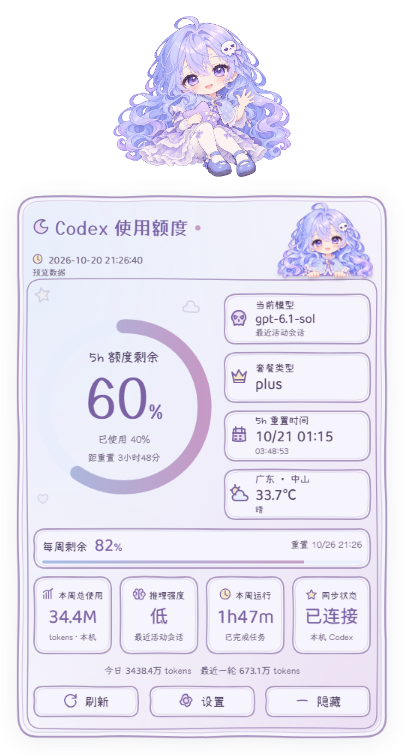
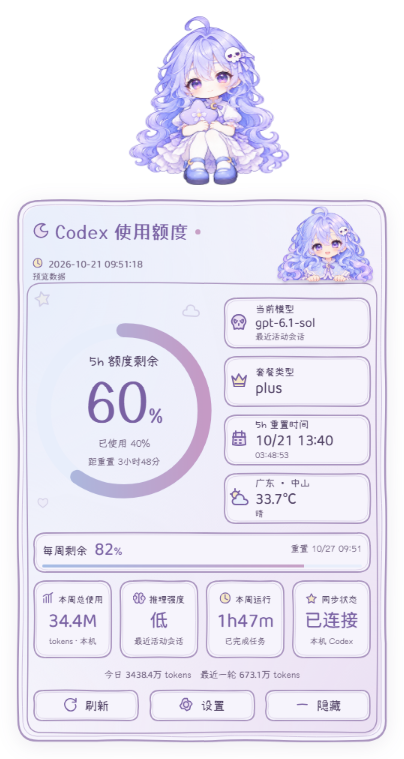
Align idle and blinking poses with seated breathing concept and refresh README

diff --git a/ui/pet.html b/ui/pet.html
@@ -26,5 +26,5 @@
     <div class="doodle d1" data-icon="star"></div><div class="doodle d2" data-icon="cloud"></div><div class="doodle d3" data-icon="heart"></div><div id="notice" role="status" hidden></div>
   </section>
   <div id="bridge" hidden></div>
-  <button id="pet" aria-label="Lunelle：点击展开或收起额度，拖动移动，右键设置" title="Lunelle"><span id="pet-facing"><span id="pet-breathe"><span id="pet-art"><img src="../assets/characters/pet.png" id="pet-image" alt="Lunelle"><span id="walk-rig" aria-hidden="true"><span class="walk-leg walk-leg-back"><img src="../assets/characters/walk-leg-right.png" alt="" draggable="false"></span><span class="walk-leg walk-leg-front"><img src="../assets/characters/walk-leg-left.png" alt="" draggable="false"></span><img class="walk-body" src="../assets/characters/walk-body.png" alt="" draggable="false"></span></span></span></span></button>
+  <button id="pet" aria-label="Lunelle：点击展开或收起额度，拖动移动，右键设置" title="Lunelle"><span id="pet-facing"><span id="pet-breathe"><span id="pet-art"><img src="../assets/characters/idle-seated.png" id="pet-image" alt="Lunelle"><span id="walk-rig" aria-hidden="true"><span class="walk-leg walk-leg-back"><img src="../assets/characters/walk-leg-right.png" alt="" draggable="false"></span><span class="walk-leg walk-leg-front"><img src="../assets/characters/walk-leg-left.png" alt="" draggable="false"></span><img class="walk-body" src="../assets/characters/walk-body.png" alt="" draggable="false"></span></span></span></span></button>
 </main><script src="illustrations.js"></script><script src="pet-animation.js"></script><script src="pet.js"></script></body></html>

diff --git a/ui/pet-animation.js b/ui/pet-animation.js
@@ -1,7 +1,7 @@
 'use strict';
 (()=>{
  const pet=document.getElementById('pet'),image=document.getElementById('pet-image'),art=document.getElementById('pet-art');
- const root='../assets/characters/',paths={idle:'pet.png',blink:'motion-blink.png',wave:'motion-wave.png',lift:'motion-lift.png',walkBody:'walk-body.png',walkLeft:'walk-leg-left.png',walkRight:'walk-leg-right.png'};
+ const root='../assets/characters/',paths={idle:'idle-seated.png',blink:'blink-seated.png',wave:'motion-wave.png',lift:'motion-lift.png',walkBody:'walk-body.png',walkLeft:'walk-leg-left.png',walkRight:'walk-leg-right.png'};
  let ready=false,panel=false,drag=false,activity='idle',action=null,animation=null,finishTimer=null,blinkTimer=null;
  const reduced=matchMedia('(prefers-reduced-motion: reduce)');
  function pose(name){if(ready){image.src=root+paths[name];pet.classList.toggle('action-pose',name!=='idle'&&name!=='blink');}}

diff --git a/README.md b/README.md
@@ -16,7 +16,7 @@
 一只浅紫色的桌面伙伴，一本随手展开的 Codex 使用手账。<br />
 剩余额度、重置倒计时、本机 token 统计与天气，轻轻放在桌边。
 
-<img src="assets/characters/pet.png" width="270" alt="Lunelle 原始柔和配色角色" />
+<img src="assets/characters/idle-seated.png" width="270" alt="Lunelle 抱星星并膝坐姿待机形象" />
 
 **[下载安装](https://github.com/Timiocoisin/Lunelle/releases/latest) · [界面预览](#preview) · [使用方式](#controls) · [源码运行](#development) · [反馈问题](https://github.com/Timiocoisin/Lunelle/issues)**
 
@@ -51,7 +51,7 @@
 
 | 平台 | 下载 | 状态 |
 | :--- | :--- | :--- |
-| Windows x64 | **[下载 v0.3.0 安装包](https://github.com/Timiocoisin/Lunelle/releases/download/v0.3.0/Lunelle-Setup-0.3.0-x64.exe)** | 已构建并完成本地验证 |
+| Windows x64 | **[下载 v0.3.1 安装包](https://github.com/Timiocoisin/Lunelle/releases/download/v0.3.1/Lunelle-Setup-0.3.1-x64.exe)** | 已构建并完成本地验证 |
 | 其他版本 | [查看全部 Releases](https://github.com/Timiocoisin/Lunelle/releases) | 更新说明与安装附件 |
 | macOS / Linux | 暂不提供安装包 | 完整桌面行为尚未验证 |
 
@@ -102,7 +102,7 @@
 
 ## 有一点动作，也懂得安静
 
-待机时轻轻呼吸、偶尔眨眼；单击随机歪头、点头或挥手，仍正常切换面板。
+待机采用下方设计稿中的抱星星、双膝并拢坐姿，轻轻呼吸、偶尔眨眼；单击随机歪头、点头或挥手，仍正常切换面板。
 拖动时切换拎起姿态，松手后轻微回弹。面板展开后停止走动，只保留轻微呼吸。
 
 在 **设置 → 交互与说明 → 自动活动** 开启，默认关闭：
@@ -120,6 +120,12 @@
 <sub>最初的八动作设计稿，保留更名前的 Xingyue 题字。设计图表达动作方向，实际效果以运行截图和应用为准。</sub>
 
 </div>
+
+### 待机，和设计稿保持一致
+
+<table><tr><th>待机坐姿</th><th>同姿态眨眼</th></tr><tr><td align="center"><img src="assets/characters/idle-seated.png" width="260" alt="实际使用的抱星星并膝待机坐姿" /></td><td align="center"><img src="assets/characters/blink-seated.png" width="260" alt="保持相同坐姿的闭眼帧" /></td></tr></table>
+
+待机呼吸使用同一张坐姿图连续轻微起伏，不来回切换两张人物图片。面板展开后保持坐姿，只保留轻微呼吸。
 
 ### 走几步，再陪你坐一会儿
 
@@ -205,17 +211,17 @@ tests/      合成日志、坐标回归、隔离界面与原生窗口检查
 docs/       展示图片、实现与安装验证记录
 ```
 
-## 最近更新 · v0.3.0
+## 最近更新 · v0.3.1
 
 - **正式更名为 Lunelle**：软件、安装包、快捷方式与仓库名称统一，旧仓库链接由 GitHub 重定向。
-- **八组动作与全屏散步**：保留原始柔和待机形象，加入动作预览、活动状态说明和快速试走。
+- **八组动作与全屏散步**：按动作设计稿统一抱星星、并膝坐姿待机形象，加入动作预览、活动状态说明和快速试走。
 - **连续交替步态**：完整腿部在裙摆下重叠，双脚连续交换前后位置；移除整图轮播和屏幕左右翻转。
 - **陪伴不打断**：桌宠及额度面板固定置顶且不抢前台焦点，独立设置窗口可正常输入。
 - **沿用旧版偏好**：保留升级标识与原配置目录，覆盖升级继续使用现有设置。
 
 本版通过 44 项回归测试、9 组缩放与边缘布局检查，以及 60 帧界面位移检查。自动检查不能覆盖每台设备，欢迎附系统缩放比例、显示器配置与复现步骤反馈。
 
-[查看完整发布说明 →](https://github.com/Timiocoisin/Lunelle/releases/tag/v0.3.0)
+[查看完整发布说明 →](https://github.com/Timiocoisin/Lunelle/releases/tag/v0.3.1)
 
 ## 设计、致谢与许可
 

diff --git a/ASSETS.md b/ASSETS.md
@@ -61,3 +61,13 @@ layers, generated from the existing pet references. Source sheet:
 complete upper thighs overlap under the opaque skirt. These replace the
 runtime clipped full-sprite legs. The same artwork terms apply.
 
+## Seated idle alignment (2026-10-21)
+
+`idle-seated.png` and `blink-seated.png` are exported from
+`docs/design/lunelle-seated-idle-atlas-v1.png`, generated with the built-in
+image generation tool from the original eight-action concept sheet.
+Prompt: faithfully reproduce panel 01's pale lavender seated character,
+knees together, cuddling the star pillow; two identically registered frames,
+open eyes and gently closed eyes only; transparent background, no labels,
+borders, arrows or ground shadow. Existing separate artwork rights apply.
+The original pet.png is retained as a historical source, not the active idle.

diff --git a/docs/ANIMATION.md b/docs/ANIMATION.md
@@ -65,3 +65,7 @@
 ## 0.3.0 品牌更新
 
 软件和仓库正式更名为 Lunelle；原配置目录与升级标识保留，以延续旧版设置。设计稿中的旧题字保留为历史记录。
+
+## 0.3.1 待机设计对齐
+
+待机与眨眼统一使用设计稿 01 的抱星星并膝坐姿（idle-seated.png / blink-seated.png），静态入口和动画就绪后均使用新坐姿。呼吸仍为连续变换，面板展开时使用安静的陪伴呼吸。
